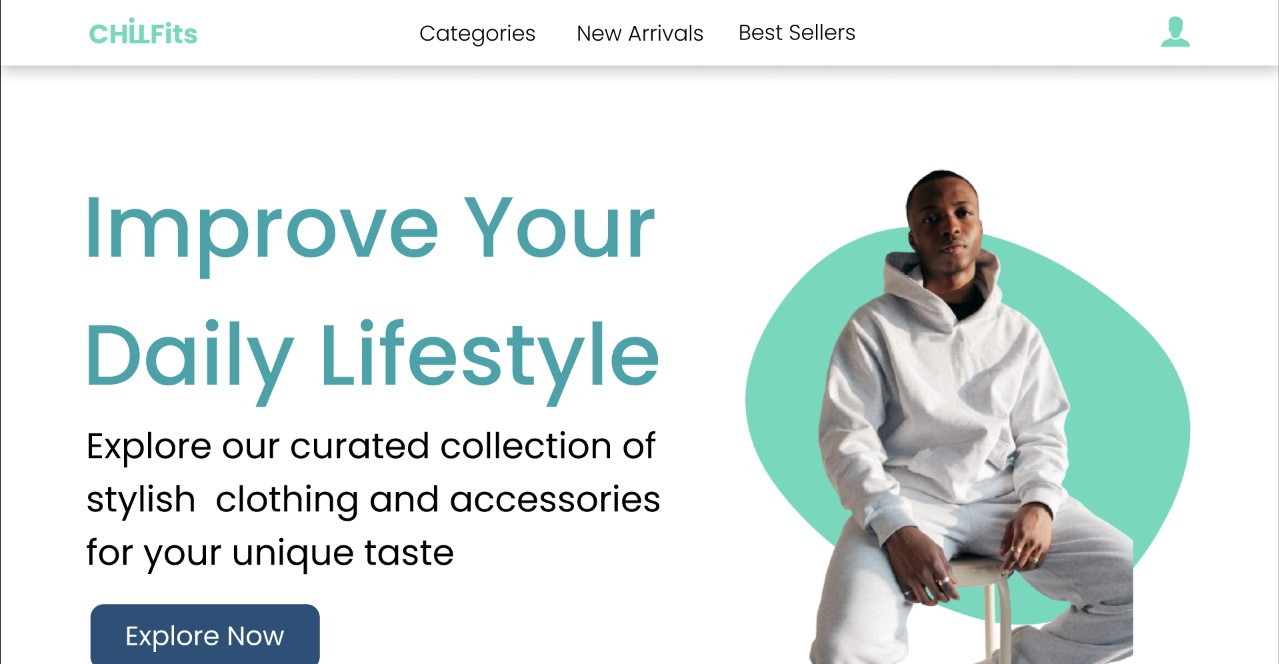
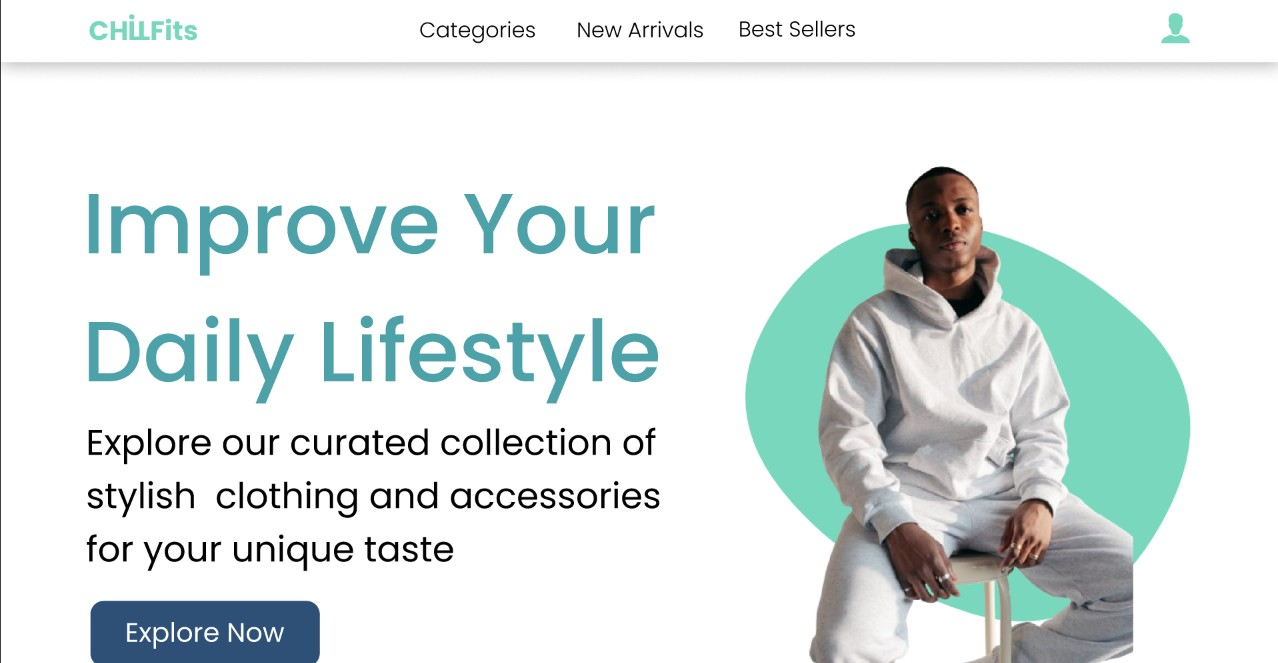
adding expense tracker project

diff --git a/index.html b/index.html
@@ -358,7 +358,7 @@
         </div>
       </section>
 
-      <section id="project" class=" bg-white pt-9 pb-2 md:pt:0 md:pb:8 scroll-mt-24 dark:bg-black">
+      <section id="project" class="pt-9 pb-2 md:pt:0 md:pb:8 scroll-mt-24 dark:bg-black">
         <div class="max-w-screen-xl mx-auto px-4">
           <h2 class="text-4xl font-bold text-center text-amber-500">My Projects</h2>
           <p class="text-gray-600 text-center mb-12 dark:text-gray-300">A Collection of Projects I've Built</p>
@@ -371,13 +371,13 @@
               <!-- Project Image -->
               <img
                 src="./assets/projects/padel-ecommerce.webp"
-                class="w-full h-60 object-cover transition-transform group-hover:scale-110 duration-300"
+                class="w-full object-cover transition-transform group-hover:scale-110 duration-300"
                 alt="Padel E-commerce" />
 
               <div class="p-4">
                 <h3 class="text-xl font-semibold mb-2 dark:text-gray-900">Padel E-commerce</h3>
                 <p class="text-sm text-orange-600 dark:text-gray-500">
-                  Web App built with HTML, CSS, and JavaScript.
+                  Web App for Commercializing Padel Sports Equipment Store
                 </p>
 
                 <!-- Tech Stack Logos + Text -->
@@ -404,29 +404,29 @@
               
               <!-- Project Image -->
               <img
-                src="https://images.unsplash.com/photo-1530435460869-d13625c69bbf?q=80&w=1470&auto=format&fit=crop"
-                class="w-full h-60 object-cover transition-transform group-hover:scale-110 duration-300"
-                alt="Project 2" />
+                src="./assets/projects/expense-tracker.webp"
+                class="w-full object-cover transition-transform group-hover:scale-110 duration-300"
+                alt="Expense Tracker" />
 
               <div class="p-4">
-                <h3 class="text-xl font-semibold mb-2 dark:text-gray-900">Project Two</h3>
+                <h3 class="text-xl font-semibold mb-2 dark:text-gray-900">Expense Tracker</h3>
                 <p class="text-sm text-orange-600 dark:text-gray-500">
-                  Landing Page for SaaS platform.
+                  Web App for Tracking Personal Expenses and Budgeting
                 </p>
 
                 <!-- Tech Stack Logos + Text -->
                 <div class="mt-3 flex flex-wrap gap-2">
-                  <div class="flex items-center gap-1 px-2 py-1 text-xs font-medium bg-indigo-100 text-indigo-700 rounded-full">
-                    <img src="https://cdn.jsdelivr.net/gh/devicons/devicon/icons/nextjs/nextjs-original.svg" alt="Next.js" class="w-4 h-4">
-                    <span>Next.js</span>
+                  <div class="flex items-center gap-1 px-2 py-1 text-xs font-medium bg-sky-100 text-sky-700 rounded-full">
+                    <img src="https://cdn.jsdelivr.net/gh/devicons/devicon/icons/html5/html5-original.svg" alt="React" class="w-4 h-4">
+                    <span>HTML5</span>
                   </div>
                   <div class="flex items-center gap-1 px-2 py-1 text-xs font-medium bg-teal-100 text-teal-700 rounded-full">
-                    <img src="https://cdn.jsdelivr.net/gh/devicons/devicon/icons/tailwindcss/tailwindcss-original.svg" alt="Tailwind" class="w-4 h-4">
-                    <span>Tailwind</span>
+                    <img src="https://cdn.jsdelivr.net/gh/devicons/devicon/icons/css3/css3-original.svg" alt="Tailwind" class="w-4 h-4">
+                    <span>CSS3</span>
                   </div>
-                  <div class="flex items-center gap-1 px-2 py-1 text-xs font-medium bg-gray-100 text-gray-700 rounded-full">
-                    <img src="https://cdn.jsdelivr.net/gh/devicons/devicon/icons/typescript/typescript-original.svg" alt="TypeScript" class="w-4 h-4">
-                    <span>TypeScript</span>
+                  <div class="flex items-center gap-1 px-2 py-1 text-xs font-medium bg-yellow-100 text-yellow-700 rounded-full">
+                    <img src="https://cdn.jsdelivr.net/gh/devicons/devicon/icons/javascript/javascript-original.svg" alt="JavaScript" class="w-4 h-4">
+                    <span>JavaScript</span>
                   </div>
                 </div>
               </div>
@@ -439,7 +439,7 @@
               <!-- Project Image -->
               <img
                 src="./assets/projects/fashion-web-design.webp"
-                class="w-full h-60 object-cover transition-transform group-hover:scale-110 duration-300"
+                class="w-full object-cover transition-transform group-hover:scale-110 duration-300"
                 alt="Fashion Web Design" />
 
               <div class="p-4">

diff --git a/projects/padel-ecommerce.html b/projects/padel-ecommerce.html
@@ -1,0 +1,9 @@
+<!doctype html>
+<html lang="en">
+  <head>
+    <meta charset="UTF-8" />
+    <meta name="viewport" content="width=device-width, initial-scale=1.0" />
+    <title>Padel E-commerce</title>
+  </head>
+  <body></body>
+</html>
